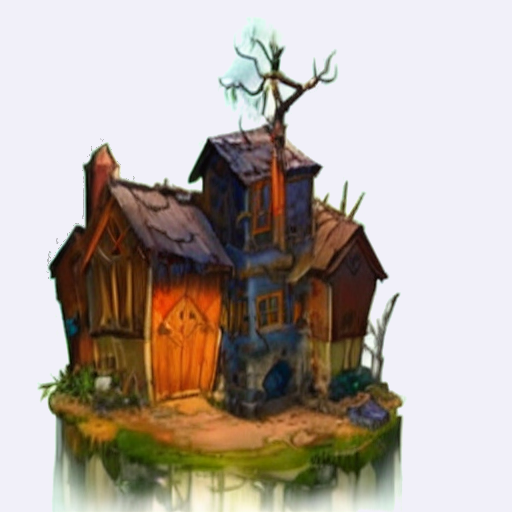
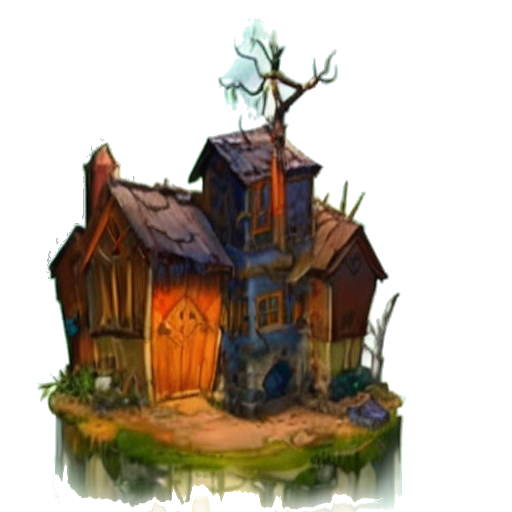
refactored the animation logic, added spring ver 2.7.8, tweaked the background position and camera position

Changed region(s): [[0.0938, 0.9062, 0.75, 1.0], [0.4688, 0.1875, 0.5, 0.25], [0.4688, 0.0312, 0.5312, 0.0625]]

diff --git a/core/src/com/league/game/LeagueOfMonsters.java b/core/src/com/league/game/LeagueOfMonsters.java
@@ -10,92 +10,76 @@ import com.badlogic.gdx.graphics.g2d.SpriteBatch;
 import com.badlogic.gdx.graphics.g2d.TextureRegion;
 import com.badlogic.gdx.graphics.glutils.ShapeRenderer;
 import com.badlogic.gdx.utils.ScreenUtils;
-import com.league.game.Utils.InputHandler;
+import com.league.game.enums.FacingDirection;
+import com.league.game.Handlers.InputHandler;
 import com.league.game.heroes.Hero;
-import com.league.game.Utils.StateManager;
+import com.league.game.Handlers.StateHandler;
 import com.league.game.models.Nexus;
+import com.league.game.utils.ImageProcessor;
 import io.socket.client.IO;
 import io.socket.client.Socket;
 import io.socket.emitter.Emitter;
 import org.json.simple.JSONArray;
 import org.json.simple.JSONObject;
 import org.json.simple.parser.JSONParser;
+import org.springframework.boot.SpringApplication;
+import org.springframework.boot.autoconfigure.SpringBootApplication;
 
 import java.util.HashMap;
 import java.util.Map;
 
+@SpringBootApplication
 public class LeagueOfMonsters extends ApplicationAdapter {
-
-	private static final int SPRITE_COLS = 4, SPRITE_ROWS = 2;
 	private Animation<TextureRegion> heroMovementAnimation;
-	private Texture movementSpriteSheet;
+	private Animation<TextureRegion> heroAttackAnimation;
+
+	private Animation<TextureRegion> heroAbilityAnimation;
+	private TextureRegion heroIdleAnimation;
 	private SpriteBatch spriteBatch;
 	private float animationDuration;
 	private OrthographicCamera playerCamera;
-
 	private TextureRegion currentFrame;
 
+	private TextureRegion abilityFrame;
 
-	ShapeRenderer shape;
-	Hero hero;
-	JSONParser parser;
-	JSONObject gameState;
-
-	private TextureRegion[] movementFrames;
-
+	private ShapeRenderer shape;
+	private JSONParser parser;
+	private JSONObject gameState;
 	private Map<String, Hero> heroes;
-	private Map<String, JSONObject> heroesState;
 	private Nexus nexus;
-	Socket socket;
-
+	private Socket socket;
 	private static Texture backgroundTexture;
 	private static Sprite backgroundSprite;
 
 	@Override
 	public void create () {
+		SpringApplication.run(LeagueOfMonsters.class);
 		nexus = Nexus.builder().xPos(2000L).yPos(-100).build();
 		nexus.setNexusSprite("nexus.png");
 		backgroundTexture = new Texture("background.png");
 		backgroundSprite = new Sprite(backgroundTexture);
+		backgroundSprite.setSize( 3645, 1024);
+		backgroundSprite.setPosition(120, 235);
 		gameState = new JSONObject();
 		parser = new JSONParser();
-		heroes = new HashMap<>();
-		heroesState = new HashMap<>();
+		heroes = new HashMap<String, Hero>();
 		spriteBatch = new SpriteBatch();
-		hero = Hero.builder().xPos(50L).yPos(50L).size(50).build();
 		animationDuration = 0f;
-		gameState.put("xPos", 100L);
-		gameState.put("yPos", 100L);
-		playerCamera = new OrthographicCamera(1280, 720);
-		playerCamera.position.set(50, 50, 0);
+		playerCamera = new OrthographicCamera(Gdx.graphics.getWidth(), Gdx.graphics.getHeight());
+		playerCamera.position.set(0, 0, 0);
 		playerCamera.update();
-		movementSpriteSheet = new Texture(Gdx.files.internal("pumpkin_head_walk.png"));
 		shape = new ShapeRenderer();
-		TextureRegion[][] movementSpriteSheetSplits = TextureRegion.
-				split(movementSpriteSheet, movementSpriteSheet.getWidth() / SPRITE_COLS
-						, movementSpriteSheet.getHeight() / SPRITE_ROWS);
-
-		movementFrames = new TextureRegion[SPRITE_COLS * SPRITE_ROWS];
-		int frameCount = 0;
-		for (int i = 0; i < SPRITE_ROWS; i++) {
-			for (int j = 0; j < SPRITE_COLS; j++) {
-				movementFrames[frameCount++] = movementSpriteSheetSplits[i][j];
-			}
-		}
-
-		heroMovementAnimation = new Animation<TextureRegion>(0.15f, movementFrames);
+		heroMovementAnimation = ImageProcessor.getImageAnimation("pumpkin_head_walk.png");
+		heroAttackAnimation = ImageProcessor.getImageAnimation("pumpkin_head_attack.png");
+		heroIdleAnimation = ImageProcessor.getImageStill("pumpkin_head_walk.png");
+		heroAbilityAnimation = ImageProcessor.getImageAnimation("pumpkin_head_vines.png");
 		try {
 			socket = IO.socket("http://localhost:3000");
 			socket.on(Socket.EVENT_CONNECT, new Emitter.Listener() {
 				@Override
 				public void call(Object... args) {
-					hero = Hero.builder().xPos(50L).yPos(50L).size(50).heroId(socket.id()).build();
-					heroes.put(socket.id(), hero);
-					heroesState.put(socket.id(), new JSONObject());
-					heroesState.get(socket.id()).put("xPos", 50L);
-					heroesState.get(socket.id()).put("yPos", 50L);
+					heroes.put(socket.id(), Hero.builder().xPos(0).yPos(0).facingDirection(FacingDirection.NONE).heroId(socket.id()).build());
 					System.out.println("Connected to Game Server");
-
 				}
 			});
 			socket.on(Socket.EVENT_DISCONNECT, new Emitter.Listener() {
@@ -112,7 +96,7 @@ public class LeagueOfMonsters extends ApplicationAdapter {
 					try {
 						gameState = (JSONObject) parser.parse(String.valueOf(args[0]));
 						JSONArray connectedPlayers = (JSONArray) gameState.get("connected");
-						heroes = StateManager.replicateServerState(connectedPlayers);
+						heroes = StateHandler.replicateServerState(connectedPlayers);
 					} catch (Exception e) {
 						System.out.println(e.getMessage());
 					}
@@ -126,33 +110,47 @@ public class LeagueOfMonsters extends ApplicationAdapter {
 
 	@Override
 	public void render () {
-		ScreenUtils.clear(0, 0, 0, 0);
+		ScreenUtils.clear(0, 240, 0, 0);
 		animationDuration += Gdx.graphics.getDeltaTime();
 		InputHandler.handleInput(socket);
 		spriteBatch.setProjectionMatrix(playerCamera.combined);
 		socket.emit("getState");
 		spriteBatch.begin();
-		backgroundSprite.draw(spriteBatch);
 		nexus.draw(spriteBatch);
-		for (Map.Entry<String, Hero> localHero : heroes.entrySet()) {
-			if (localHero.getKey().equals(hero.getHeroId())) {
-				playerCamera.position.set(localHero.getValue().getXPos(), 0, 0);
+		backgroundSprite.draw(spriteBatch);
+		for (Map.Entry<String, Hero> hero : heroes.entrySet()) {
+			if (hero.getKey().equals(socket.id())) {
+				playerCamera.position.set(hero.getValue().getXPos()  + 150, hero.getValue().getYPos() + 240, 0);
 				playerCamera.update();
 			}
-			if (localHero.getValue().isMoving()) {
+			if (hero.getValue().isMoving()) {
 				currentFrame = heroMovementAnimation.getKeyFrame(animationDuration, true);
+			} else if (hero.getValue().isAttacking()) {
+				currentFrame = heroAttackAnimation.getKeyFrame(animationDuration / 2, true);
+				abilityFrame = heroAbilityAnimation.getKeyFrame(animationDuration / 2, true);
 			} else {
-				currentFrame = movementFrames[4];
+				currentFrame = heroIdleAnimation;
+				abilityFrame = null;
 			}
-			localHero.getValue().draw(spriteBatch, currentFrame);
+			hero.getValue().draw(spriteBatch, currentFrame);
+			if (abilityFrame != null && hero.getValue().getFacingDirection().equals(FacingDirection.LEFT)) {
+				hero.getValue().drawAbility(spriteBatch, abilityFrame, hero.getValue().getXPos() - 200, hero.getValue().getYPos());
+			} else if ( abilityFrame != null && hero.getValue().getFacingDirection().equals(FacingDirection.RIGHT)) {
+				hero.getValue().drawAbility(spriteBatch, abilityFrame, hero.getValue().getXPos() + 100, hero.getValue().getYPos());
+			}
 		}
 		spriteBatch.end();
+	}
+
+	@Override
+	public void resize(int width, int height) {
+		super.resize(width, height);
 	}
 	
 	@Override
 	public void dispose () {
 		shape.dispose();
 		spriteBatch.dispose();
-		movementSpriteSheet.dispose();
+		backgroundTexture.dispose();
 	}
 }

diff --git a/core/src/com/league/game/Handlers/StateHandler.java b/core/src/com/league/game/Handlers/StateHandler.java
@@ -1,5 +1,6 @@
-package com.league.game.Utils;
+package com.league.game.Handlers;
 
+import com.league.game.enums.FacingDirection;
 import com.league.game.heroes.Hero;
 import org.json.simple.JSONArray;
 import org.json.simple.JSONObject;
@@ -7,7 +8,7 @@ import org.json.simple.JSONObject;
 import java.util.HashMap;
 import java.util.Map;
 
-public class StateManager {
+public class StateHandler {
     /**
      * PlayersOnServer is an JSONArray of JSONArrays
      * playersOnServer Structure:
@@ -19,7 +20,7 @@ public class StateManager {
     public static Map<String, Hero> replicateServerState(JSONArray playersOnServer) {
         JSONObject playerState;
         String playerId;
-        Map<String, Hero> newPlayersOnClient = new HashMap<>();
+        Map<String, Hero> newPlayersOnClient = new HashMap<String, Hero>();
 
         // Each player would represent the inner JSONArray, and playersOnServer would be the outer JSONArray
         // playersOnServer = [[player1id , player1State], [player2id , player2State]]
@@ -36,10 +37,18 @@ public class StateManager {
 
     // This maps the JSONObject values to the Hero Object values
     private static void mapJSONHeroStateToHeroObject (String playerId, JSONObject jsonObjectState, Map<String, Hero> heroMap) {
-        long xPos = (long) jsonObjectState.get("xPos");
-        long yPos = (long) jsonObjectState.get("yPos");
-        boolean isAttacking = (boolean) jsonObjectState.get("isAttacking");
-        boolean isMoving = (boolean) jsonObjectState.get("isMoving");
-        heroMap.put(playerId, Hero.builder().xPos(xPos).yPos(yPos).isAttacking(isAttacking).isMoving(isMoving).heroId(playerId).build());
+        long xPos = (Long) jsonObjectState.get("xPos");
+        long yPos = (Long) jsonObjectState.get("yPos");
+        boolean isAttacking = (Boolean) jsonObjectState.get("isAttacking");
+        boolean isMoving = (Boolean) jsonObjectState.get("isMoving");
+        String direction = (String) jsonObjectState.get("facingDirection");
+        FacingDirection facingDirection = FacingDirection.NONE;
+        if (direction.equals(FacingDirection.LEFT.getDirection())) {
+           facingDirection = FacingDirection.LEFT;
+        } else if (direction.equals(FacingDirection.RIGHT.getDirection())){
+            facingDirection = FacingDirection.RIGHT;
+        }
+        heroMap.put(playerId, Hero.builder().xPos(xPos).yPos(yPos).isAttacking(isAttacking).facingDirection(facingDirection).isMoving(isMoving).heroId(playerId).build());
+
     }
 }

diff --git a/core/src/com/league/game/utils/ImageProcessor.java b/core/src/com/league/game/utils/ImageProcessor.java
@@ -1,0 +1,40 @@
+package com.league.game.utils;
+
+import com.badlogic.gdx.Gdx;
+import com.badlogic.gdx.graphics.Texture;
+import com.badlogic.gdx.graphics.g2d.Animation;
+import com.badlogic.gdx.graphics.g2d.TextureRegion;
+import lombok.AllArgsConstructor;
+import lombok.Data;
+import lombok.NoArgsConstructor;
+
+@NoArgsConstructor
+@Data
+public class ImageProcessor {
+    public static Animation<TextureRegion> getImageAnimation(String pathToImage) {
+        return (new Animation<TextureRegion>(0.15f, getTextureRegion(pathToImage)));
+    }
+
+    public static TextureRegion getImageStill(String pathToImage) {
+        return getTextureRegion(pathToImage)[4];
+    }
+
+    // TODO: handle garbage cleanup of the TextureRegion, use dispose
+    private static TextureRegion[] getTextureRegion(String pathToImage) {
+        TextureRegion[] movementFrames;
+        int spriteCols = 4;
+        int spriteRows = 2;
+        int frameCount = 0;
+        Texture movementSpriteSheet = new Texture(Gdx.files.internal(pathToImage));
+        TextureRegion[][] movementSpriteSheetSplits = TextureRegion.
+                split(movementSpriteSheet, movementSpriteSheet.getWidth() / spriteCols
+                        , movementSpriteSheet.getHeight() / spriteRows);
+        movementFrames = new TextureRegion[spriteCols * spriteRows];
+        for (int i = 0; i < spriteRows; i++) {
+            for (int j = 0; j < spriteCols; j++) {
+                movementFrames[frameCount++] = movementSpriteSheetSplits[i][j];
+            }
+        }
+        return movementFrames;
+    }
+}

diff --git a/core/src/com/league/game/heroes/Hero.java b/core/src/com/league/game/heroes/Hero.java
@@ -1,9 +1,11 @@
 package com.league.game.heroes;
 
 
+import com.badlogic.gdx.Gdx;
 import com.badlogic.gdx.graphics.g2d.SpriteBatch;
 import com.badlogic.gdx.graphics.g2d.TextureRegion;
 import com.badlogic.gdx.graphics.glutils.ShapeRenderer;
+import com.league.game.enums.FacingDirection;
 import lombok.Builder;
 import lombok.Getter;
 import org.json.simple.JSONObject;
@@ -13,14 +15,18 @@ import org.json.simple.JSONObject;
 public class Hero {
     private long xPos;
     private long yPos;
-    private int size;
-
     private String heroId;
     private boolean isAttacking;
     private boolean isMoving;
 
+    private FacingDirection facingDirection;
+
     public void draw(SpriteBatch spriteBatch, TextureRegion movementFrame) {
         spriteBatch.draw(movementFrame, xPos, yPos);
+    }
+
+    public void drawAbility(SpriteBatch spriteBatch, TextureRegion abilityFrame, long abilityXpos, long abilityYpos) {
+        spriteBatch.draw(abilityFrame, abilityXpos, abilityYpos);
     }
 
 }

diff --git a/core/src/com/league/game/enums/FacingDirection.java b/core/src/com/league/game/enums/FacingDirection.java
@@ -1,0 +1,15 @@
+package com.league.game.enums;
+
+public enum FacingDirection {
+    LEFT("left"), RIGHT("right"), NONE("none");
+
+    private String direction;
+
+    FacingDirection(String direction) {
+        this.direction = direction;
+    }
+
+    public String getDirection() {
+        return direction;
+    }
+}

diff --git a/core/src/com/league/game/Handlers/InputHandler.java b/core/src/com/league/game/Handlers/InputHandler.java
@@ -1,4 +1,4 @@
-package com.league.game.Utils;
+package com.league.game.Handlers;
 
 import com.badlogic.gdx.Gdx;
 import com.badlogic.gdx.Input;
